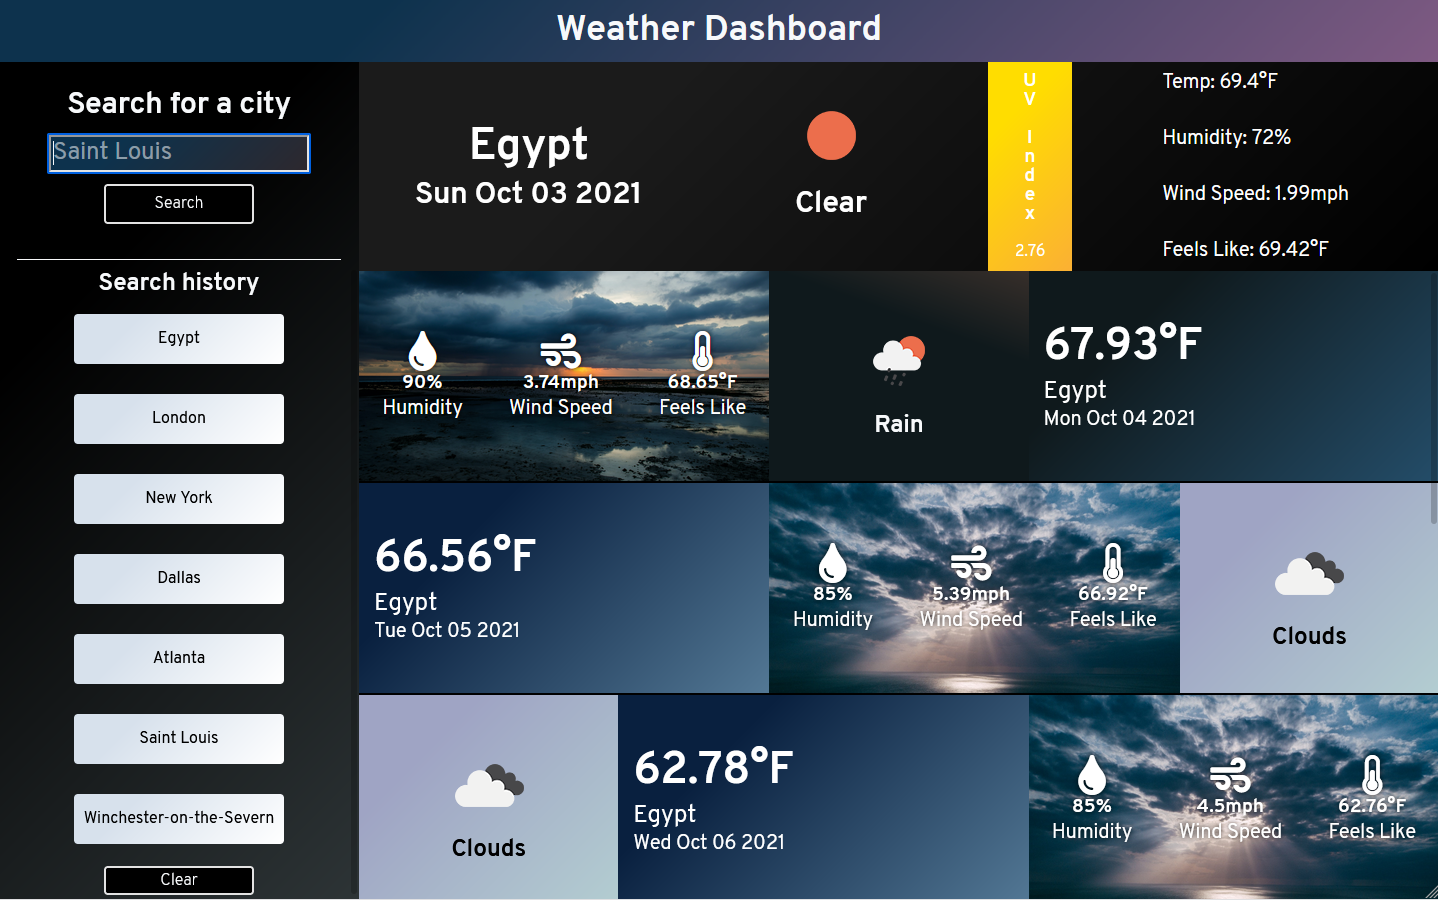
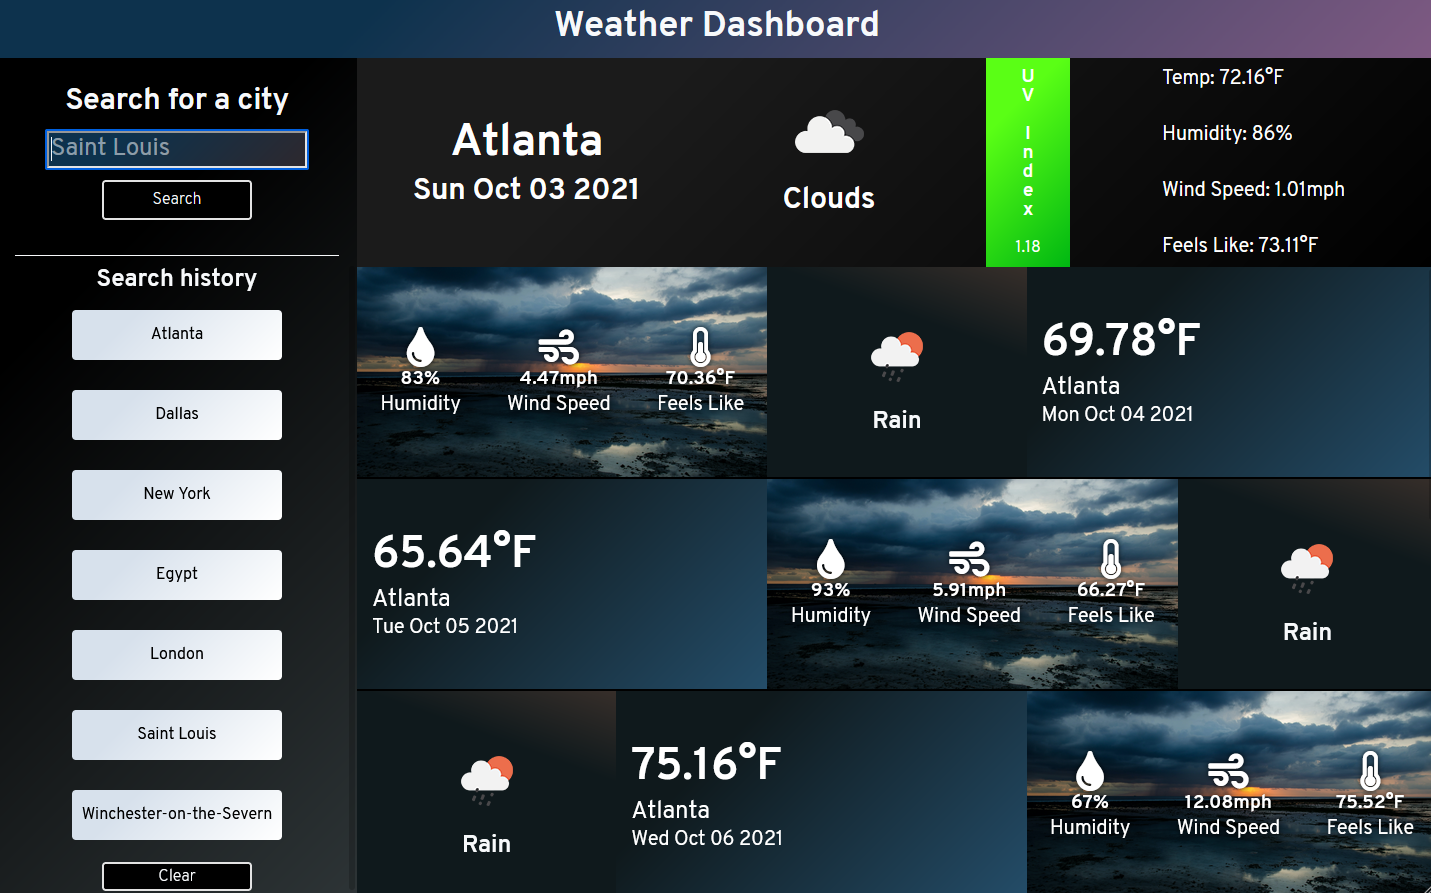
updated presentation images and README

diff --git a/README.md b/README.md
@@ -18,4 +18,4 @@ A dashboard for displaying weather data for a given city. Will display current w
 <img src="presentation/1.PNG" width="250">
 
 ## Default view (desktop)
-<img src="presentation/thumbnail.png" width="700">
+<img src="presentation/2.PNG" width="700">
